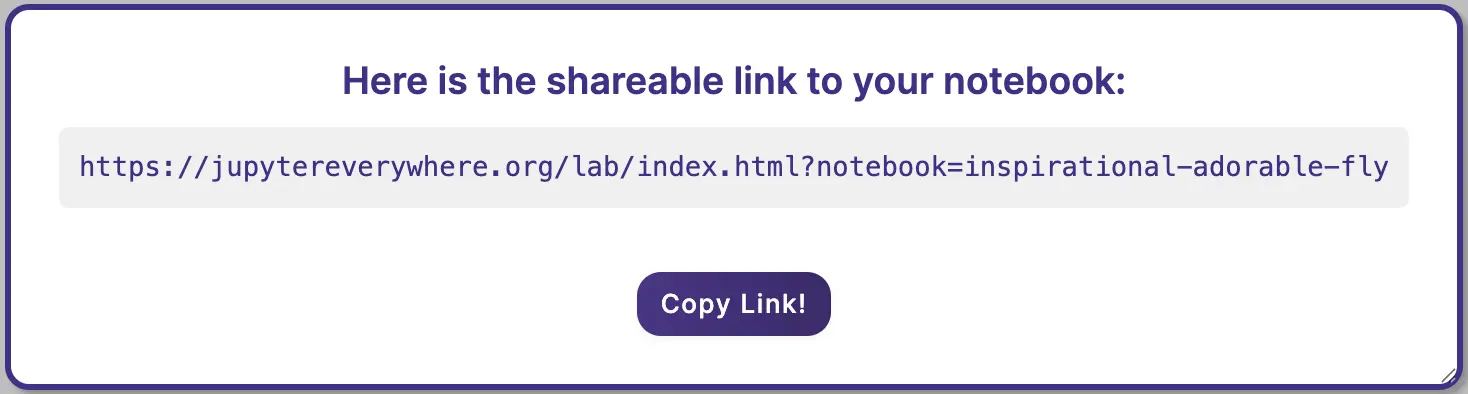
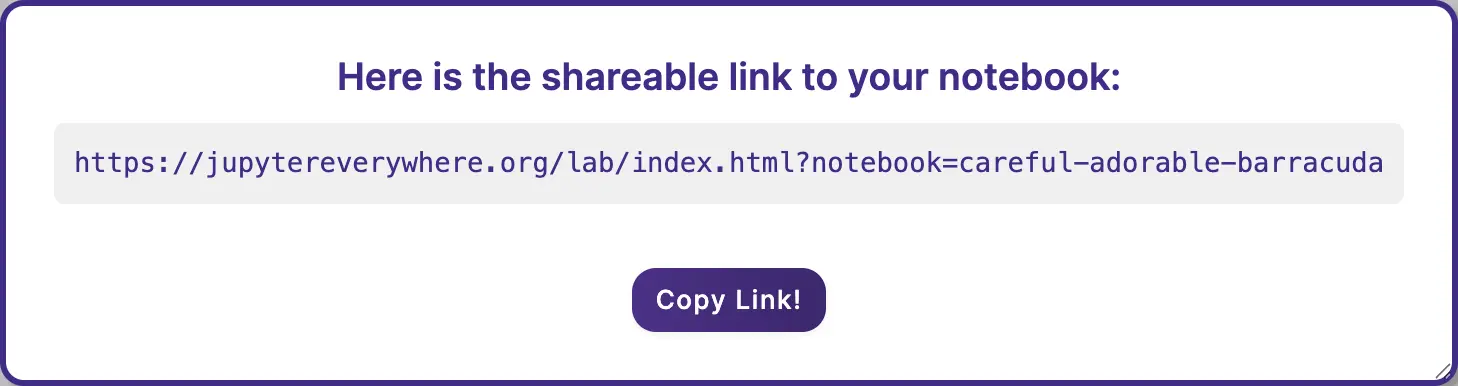
Use better shareable link image

diff --git a/apps/labs/posts/jupyter-everywhere.md b/apps/labs/posts/jupyter-everywhere.md
@@ -88,7 +88,7 @@ Later in the development process, we decided it would be more user-friendly to g
 <figure style={{ textAlign: 'center' }}>
   <img
     src="/posts/the-jupyter-everywhere-story/shareable-link.webp"
-    alt="The share dialog in Jupyter Everywhere displaying a generated shareable link with a human-readable ID 'inspirational-adorable-fly' and a 'Copy Link!' button."
+    alt="The share dialog in Jupyter Everywhere displaying a generated shareable link with a human-readable ID 'careful-adorable-barracuda' and a 'Copy Link!' button."
     style={{ display: 'inline-block', maxWidth: '100%', height: 'auto' }}
   />
   <figcaption>The share dialog with a human-readable notebook link generated from aquatic animal names and adjectives.</figcaption>
